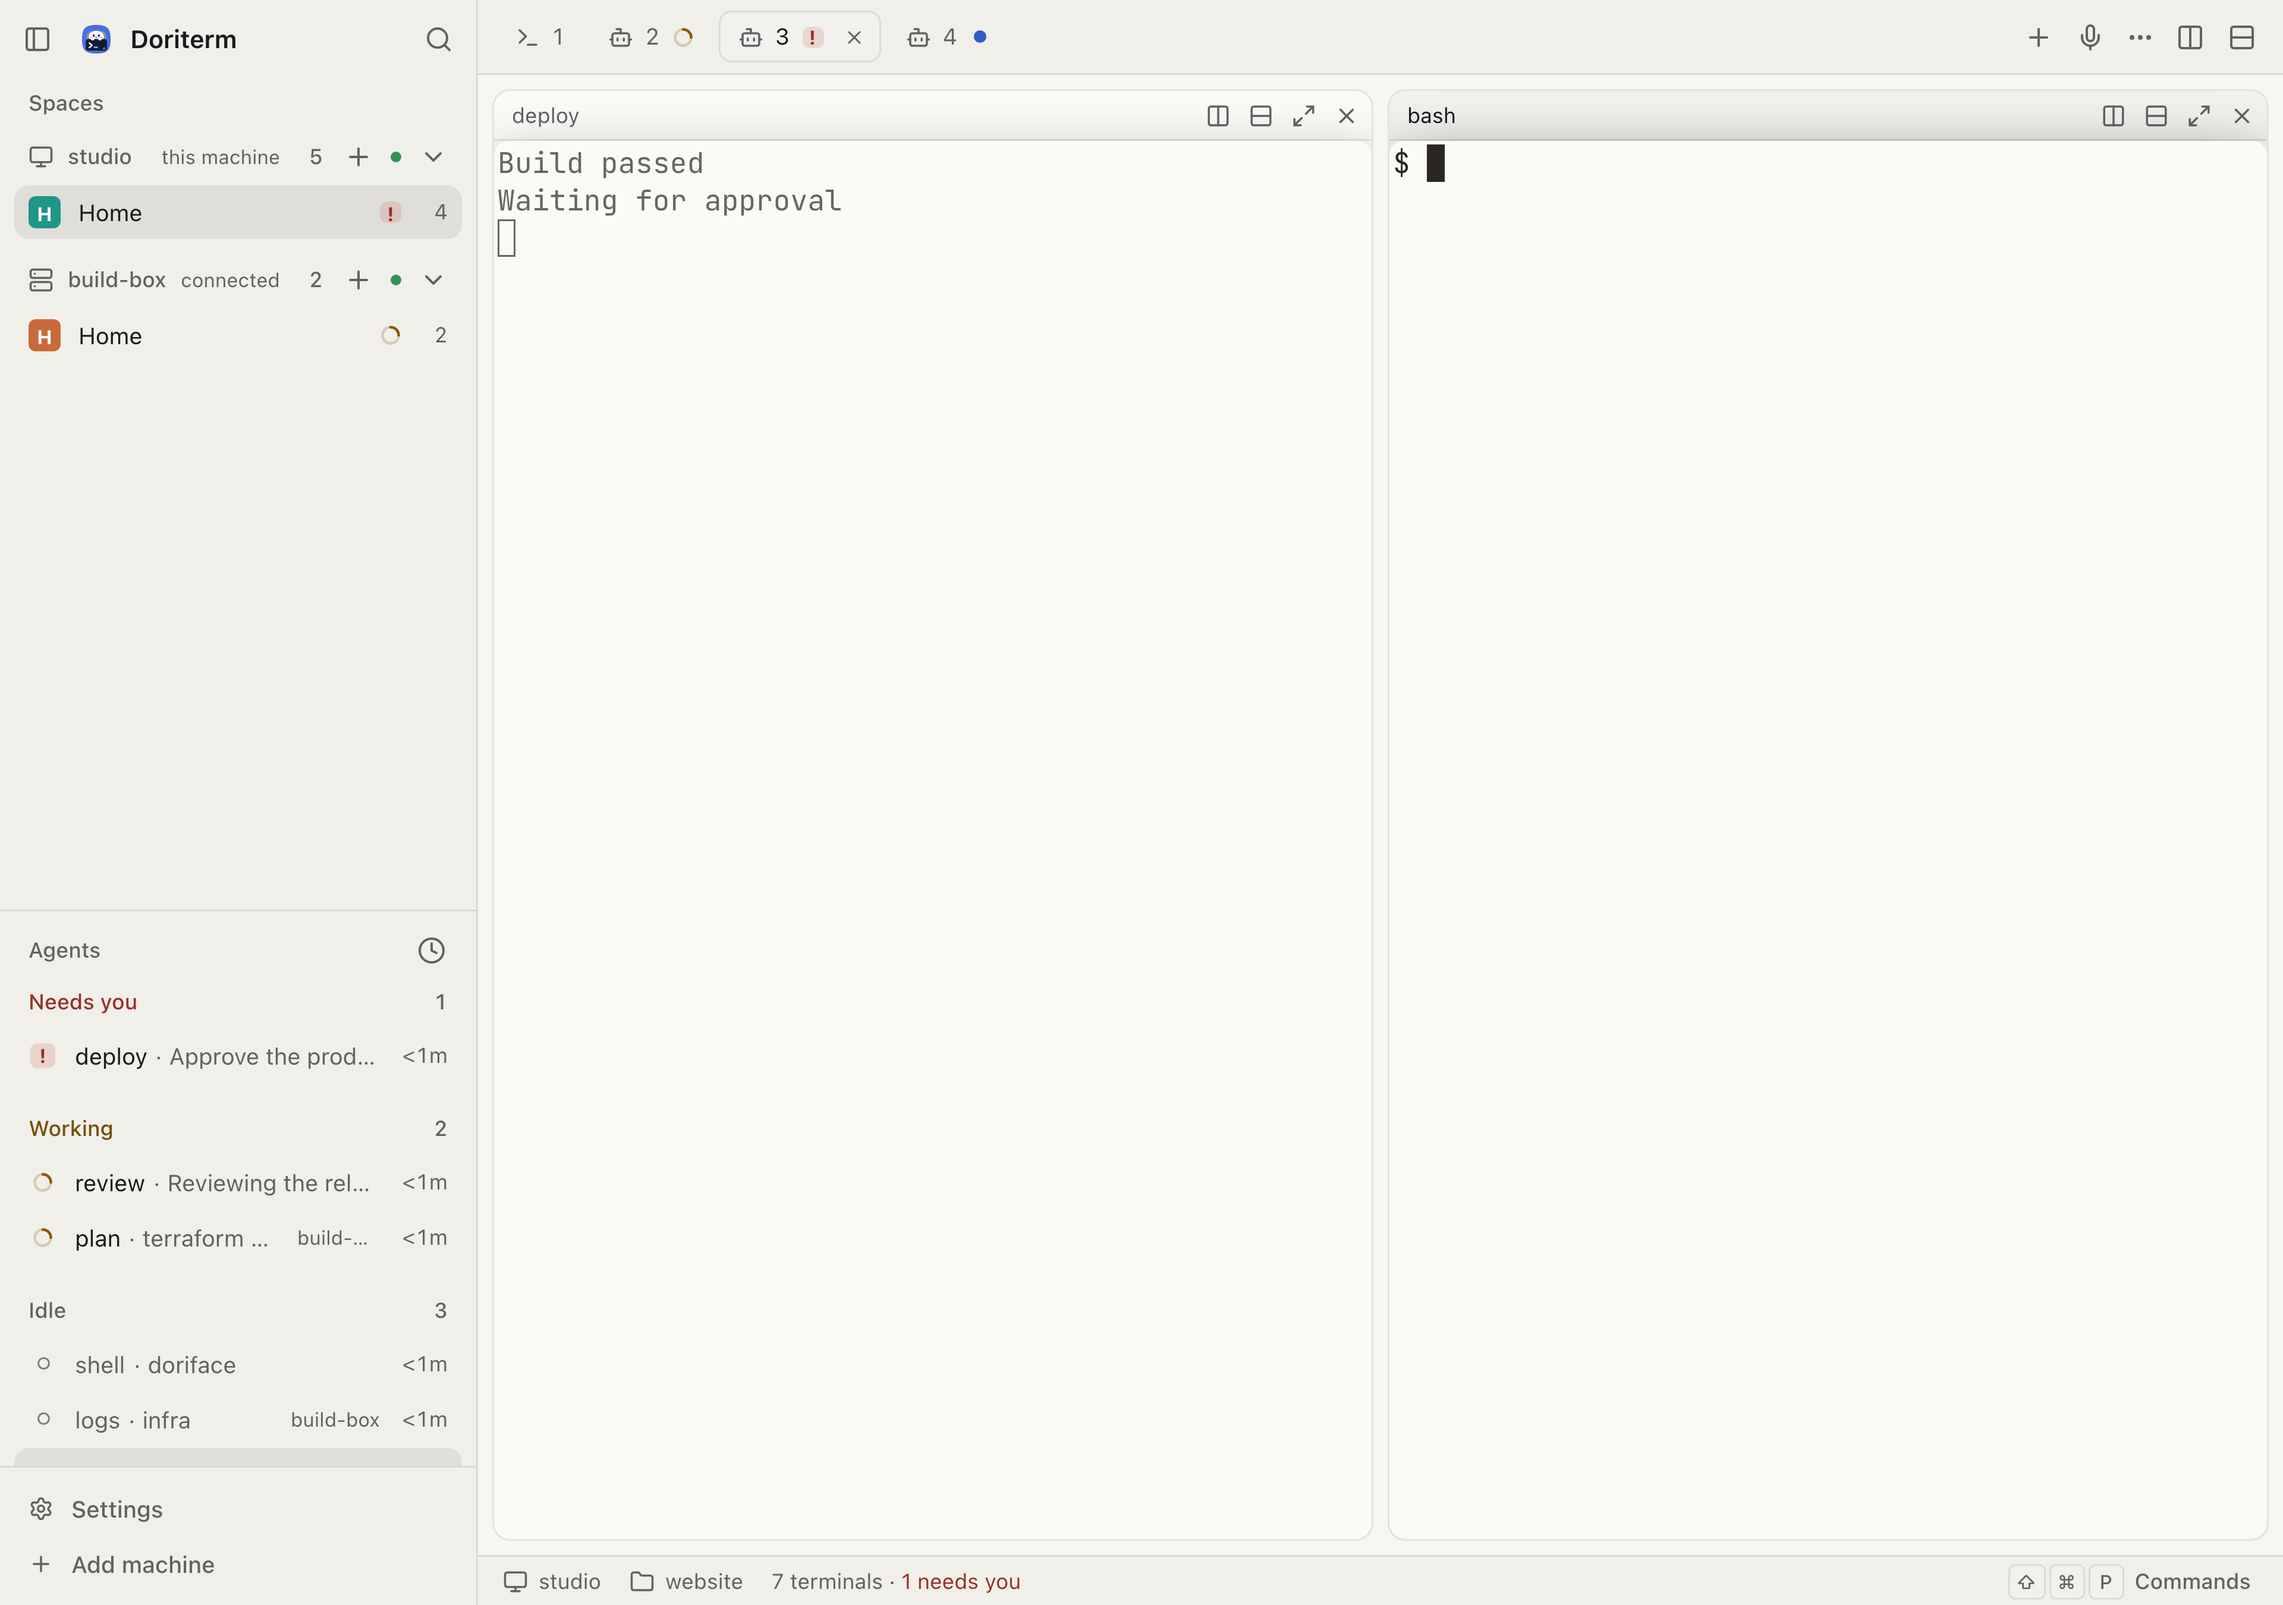
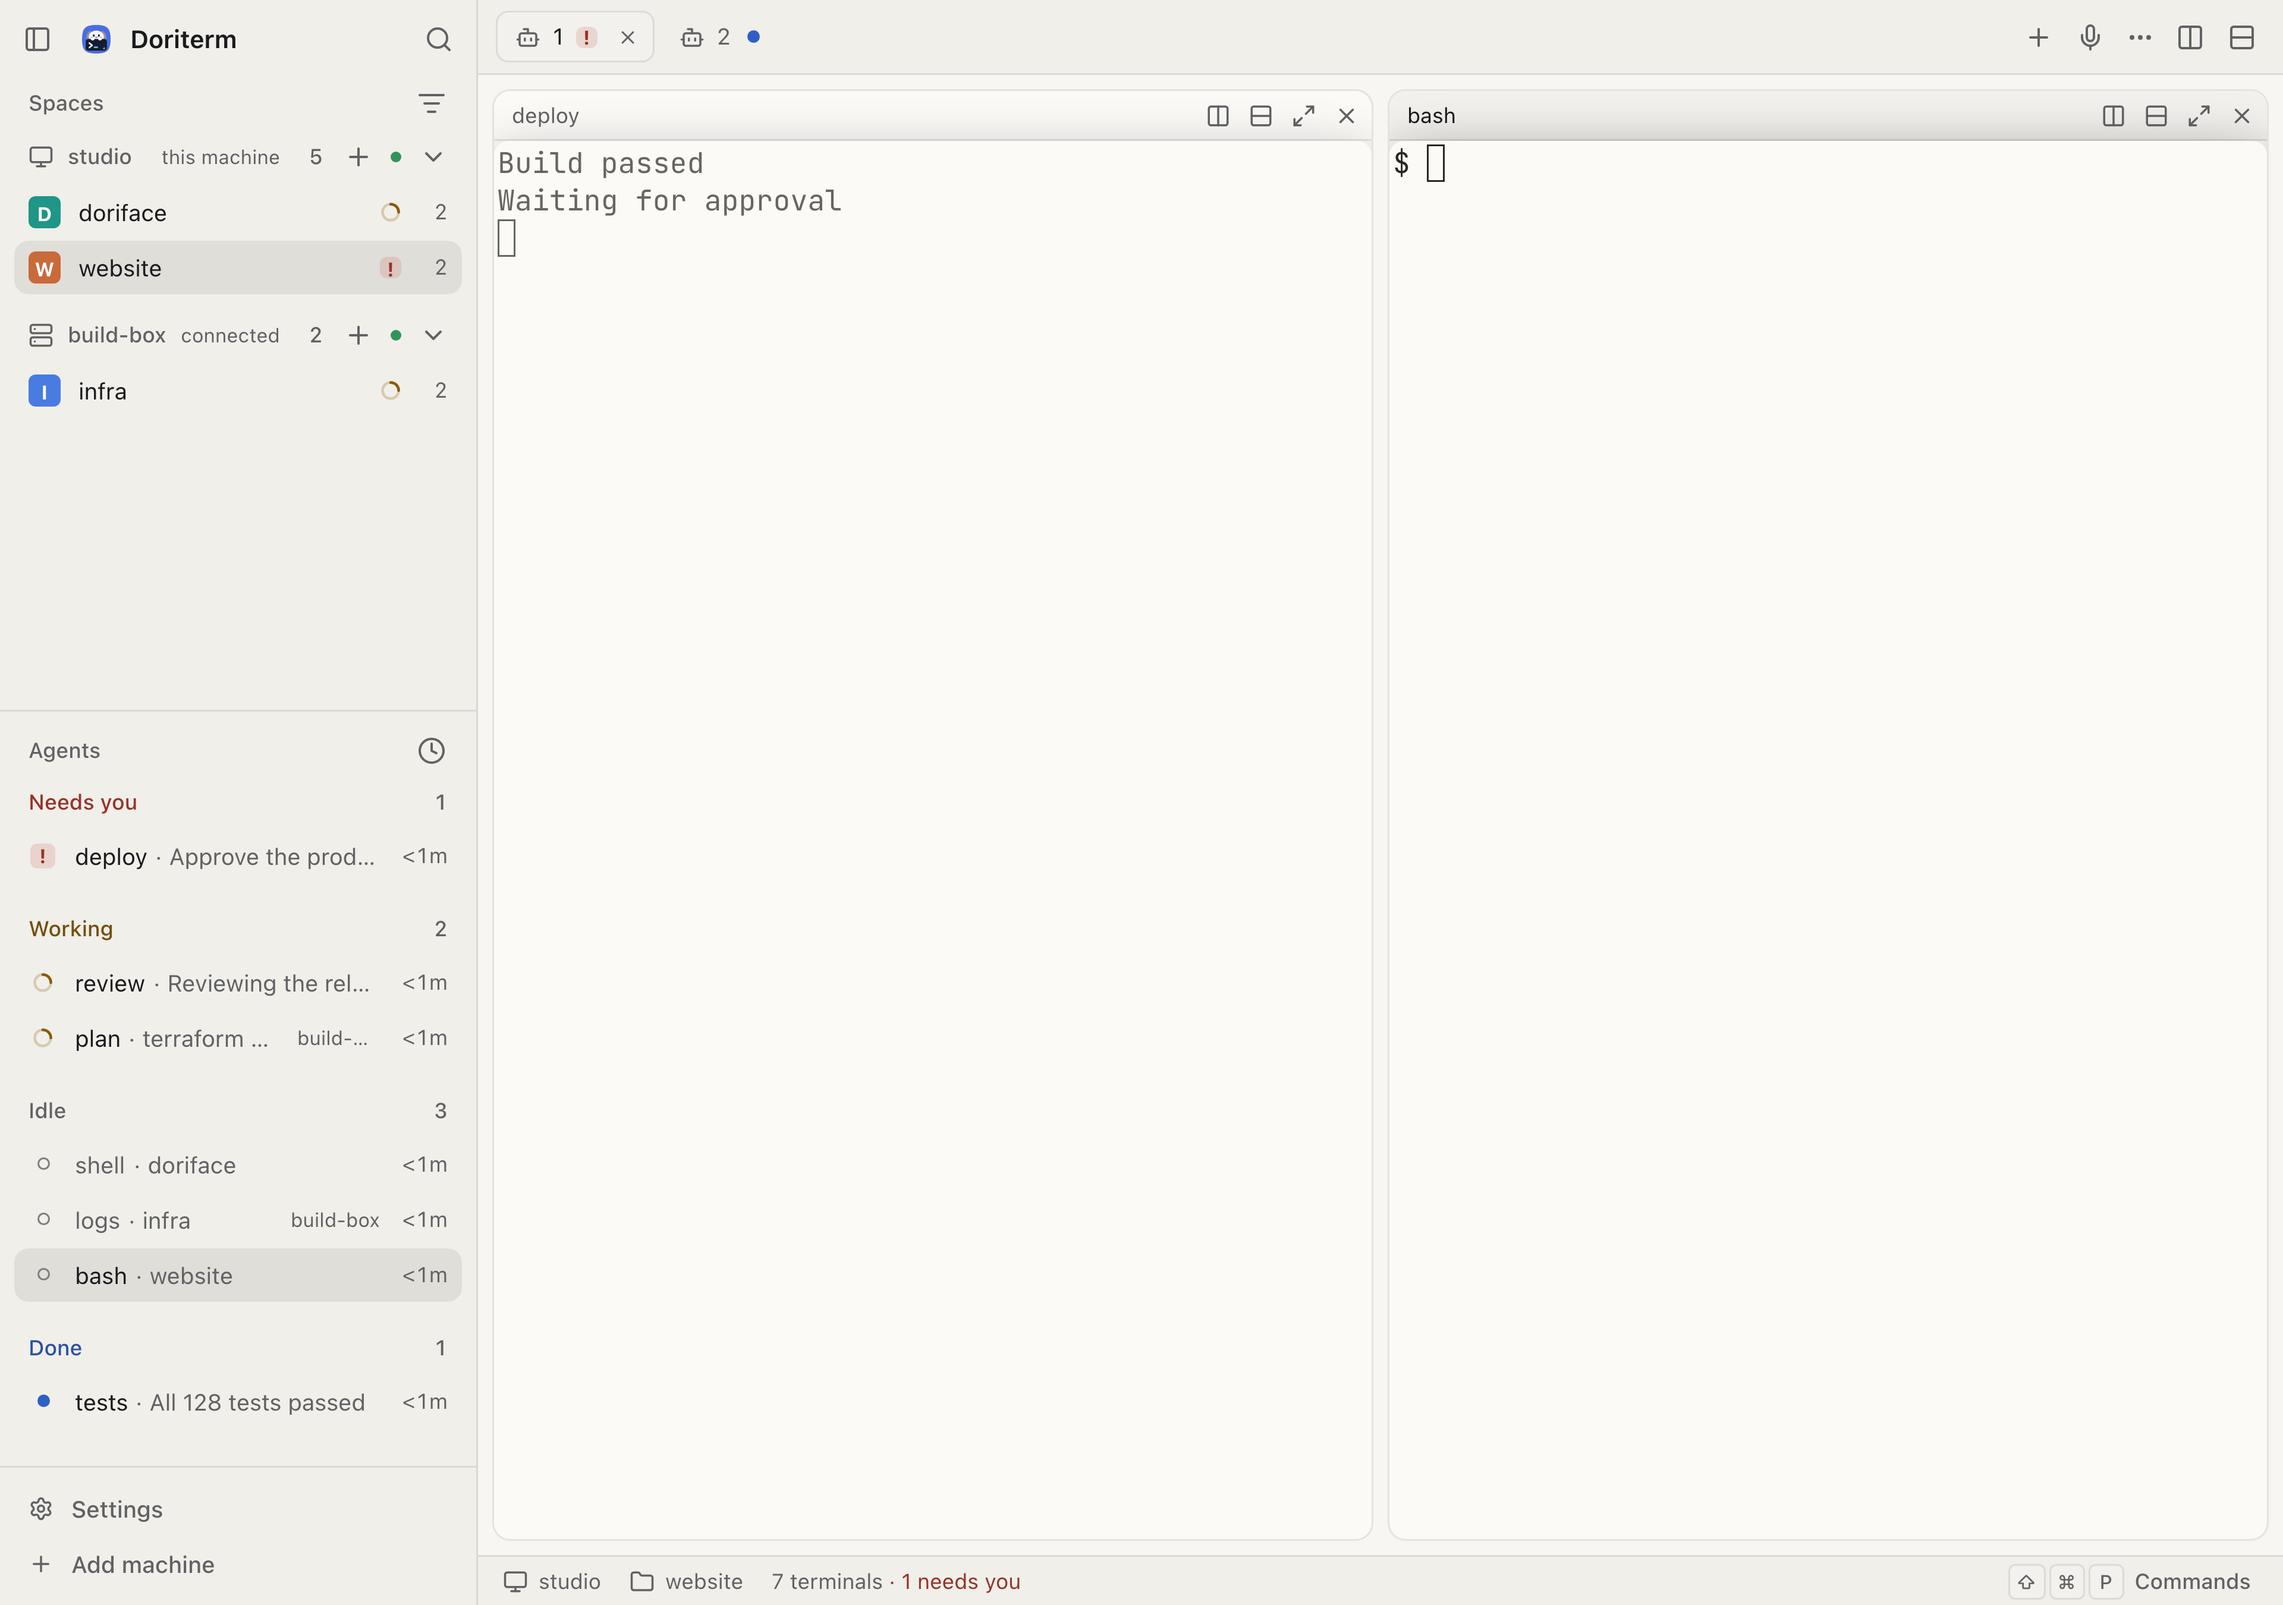
fix(web): the workspace captures show every agent row, and the social card is re-rendered from them (#1089)
* test(web): the workspace capture raises the Agents pane until no agent row is cut, and fails if one still is (#954)

* docs(design): the workspace captures show every agent row, and the social card is re-rendered from the new 4K night capture (#954)

diff --git a/apps/web/e2e/capture-fit-agents.ts b/apps/web/e2e/capture-fit-agents.ts
@@ -1,0 +1,17 @@
+import type { Page } from "@playwright/test";
+import { expect } from "./fixtures.ts";
+
+/**
+ * Raises the Agents pane the way a person drags its divider, one arrow press at a time, until the list scrolls no more:
+ * the default share cut the third Idle row under the Settings footer in the README and social-card captures (#954).
+ */
+export async function fitAgents(page: Page): Promise<void> {
+  const list = page.locator('[data-slot="agents-list"]');
+  const hidden = () => list.evaluate((viewport) => viewport.scrollHeight - viewport.clientHeight);
+  const divider = page.getByRole("separator", { name: "Resize Spaces and Agents" });
+  await divider.focus();
+  // oxlint-disable-next-line no-await-in-loop -- each press moves the divider on from where the last one left it
+  for (let press = 0; press < 40 && (await hidden()) > 0; press++) await divider.press("ArrowUp");
+  await divider.blur();
+  expect(await hidden(), "every agent row shows in the capture").toBeLessThanOrEqual(0);
+}

diff --git a/apps/web/e2e/capture-shots.ts b/apps/web/e2e/capture-shots.ts
@@ -1,4 +1,5 @@
 import type { Page } from "@playwright/test";
+import { fitAgents } from "./capture-fit-agents.ts";
 import { BAD_LINK, fakeRelay, MESH_LINK, PAIR_CODE, PAIR_LINK } from "./capture-relay.ts";
 import { expect } from "./fixtures.ts";
 import { agentRow, endAgent, startAgent, startShell } from "./agents.ts";
@@ -187,6 +188,7 @@ export const SHOTS: readonly Shot[] = [
       await expect(
         page.locator("[data-terminal]:visible").filter({ has: page.locator(".term-row", { hasText: /\S/ }) }),
       ).toHaveCount(2);
+      await fitAgents(page);
     },
   },
   {

diff --git a/changes/unreleased/1089.md b/changes/unreleased/1089.md
@@ -1,0 +1,3 @@
+### Website
+
+- The doriterm.com link preview shows the app's whole agent list: its third idle agent is no longer cut off by the sidebar's Settings footer. (#954)
